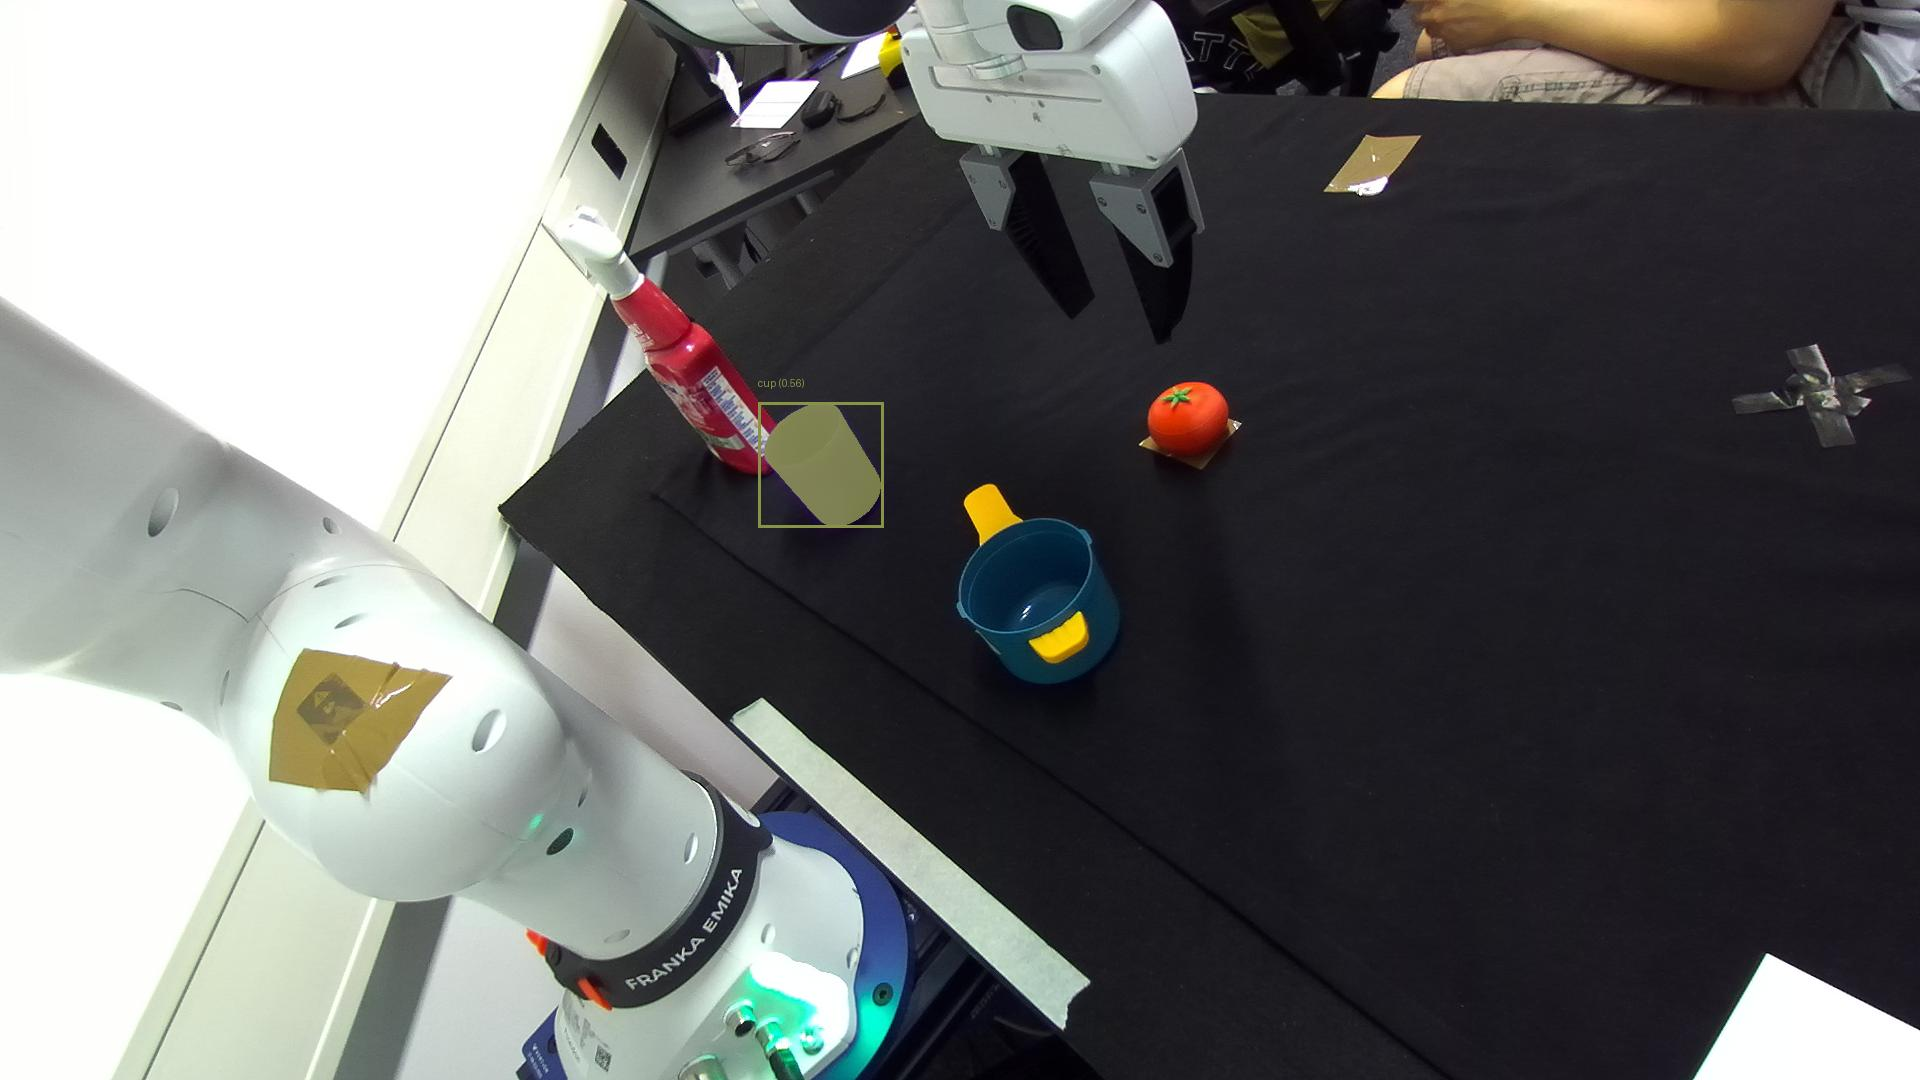
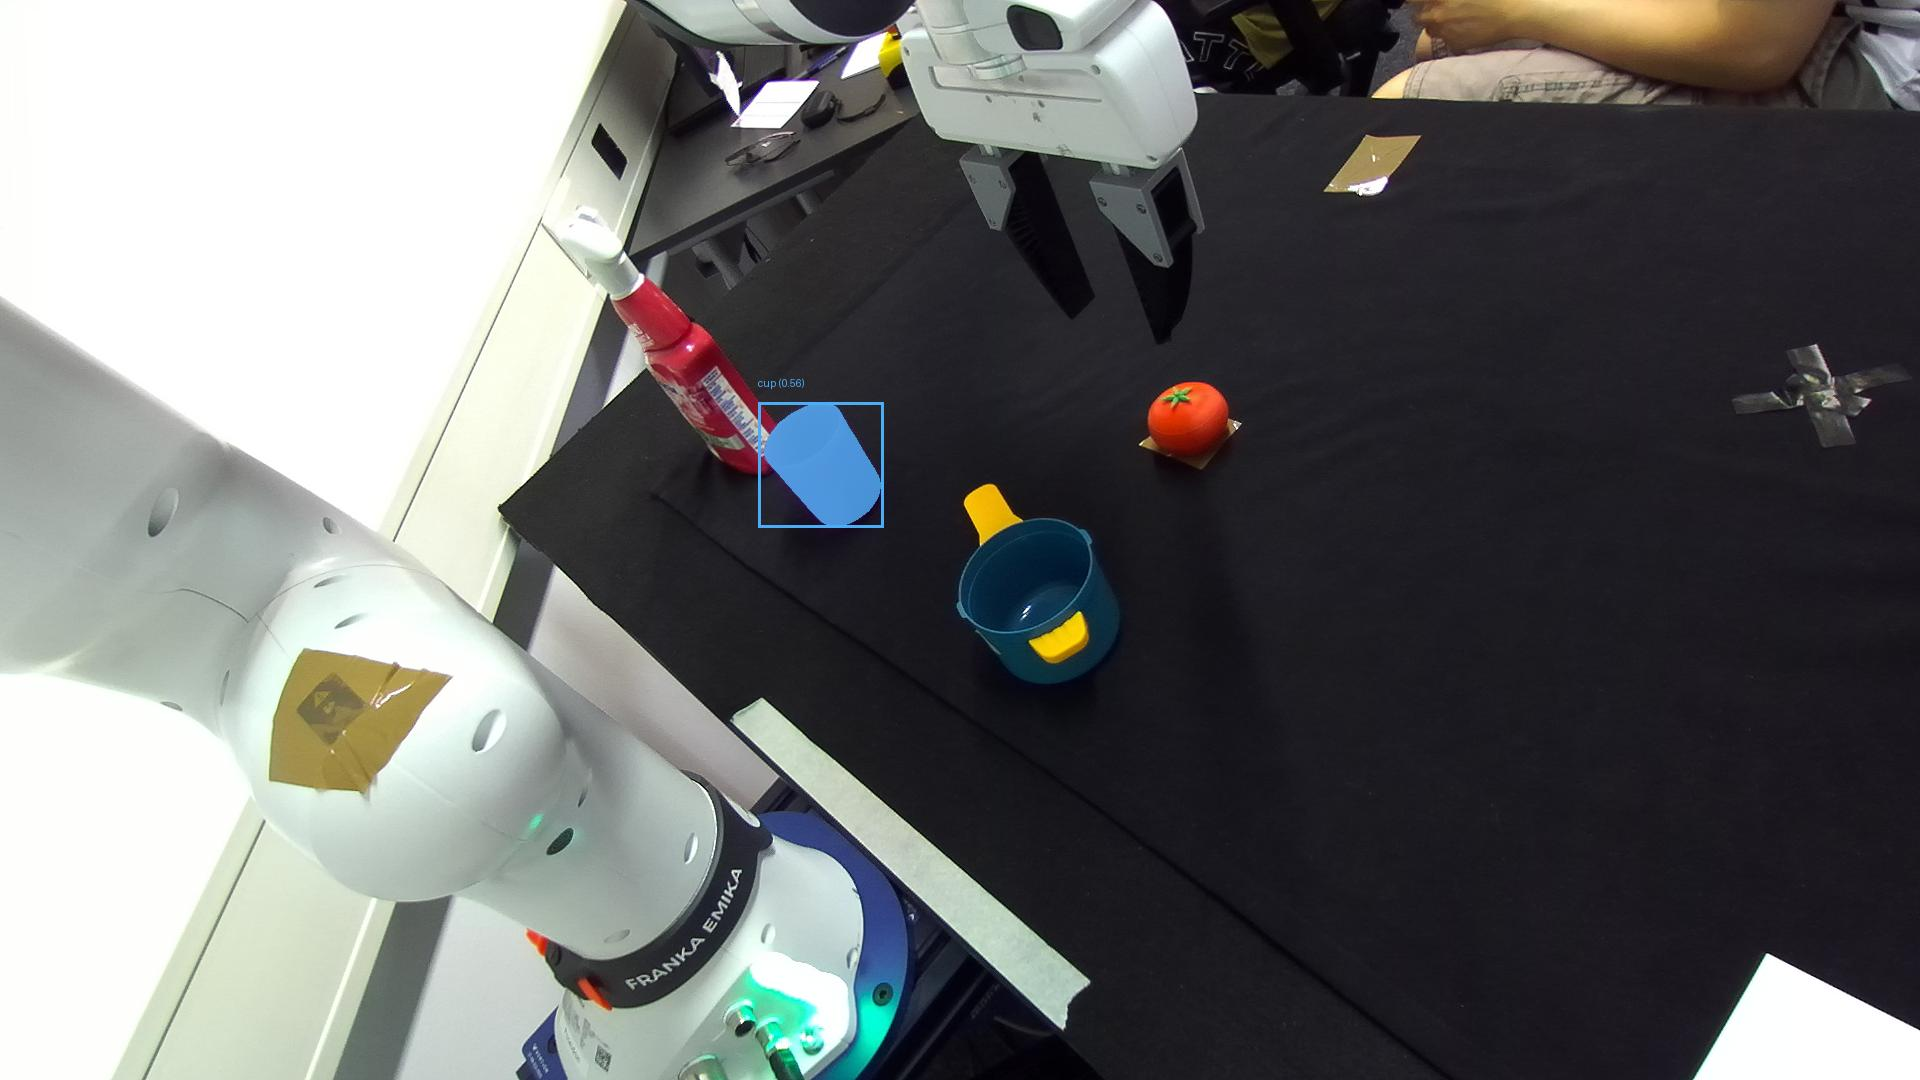
add icp and point cloud filtering

Changed region(s): [[0.375, 0.3361, 0.4688, 0.4889]]

diff --git a/high_level/src/execute/actions.py b/high_level/src/execute/actions.py
@@ -16,6 +16,116 @@ from src.pixel_world.pixel_and_world import pixels_to_world_left, pixels_to_worl
 from src.transcribe.tts import run_tts, play_text_to_speech
 import open3d as o3d
 import numpy as np
+from scipy.spatial import cKDTree
+
+def translation_only_icp(source, target, max_iter=20, tolerance=1e-6):
+    """
+    source: (N,3) 源点云
+    target: (M,3) 目标点云
+    返回: 源点云变换后的点、平移向量T
+    """
+    src = np.asarray(source).copy()
+    tgt = np.asarray(target).copy()
+
+    prev_error = float('inf')
+    T_total = np.zeros(3)
+
+    for i in range(max_iter):
+        # 1. 最近邻配对
+        tree = cKDTree(tgt)
+        dist, idx = tree.query(src)
+        tgt_corr = tgt[idx]
+
+        # 2. 计算平移量（即配对点平均偏移）
+        delta_t = tgt_corr.mean(axis=0) - src.mean(axis=0)
+        src += delta_t
+        T_total += delta_t
+
+        # 3. 收敛判断
+        mean_error = np.mean(np.linalg.norm(src - tgt_corr, axis=1))
+        if abs(prev_error - mean_error) < tolerance:
+            break
+        prev_error = mean_error
+
+    return src, T_total
+
+def preprocess_pointcloud(points, colors, voxel_size=0.005, nb_points=10, radius=0.02):
+    """
+    对输入点云和颜色进行体素下采样+半径滤波
+    返回处理后的 open3d 点云对象
+    """
+    import open3d as o3d
+    import numpy as np
+    pcd = o3d.geometry.PointCloud()
+    pcd.points = o3d.utility.Vector3dVector(np.asarray(points))
+    if colors is not None:
+        col = np.asarray(colors)
+        if col.max() > 1.1:
+            col = col / 255.0
+        pcd.colors = o3d.utility.Vector3dVector(col)
+    # 体素下采样
+    pcd = pcd.voxel_down_sample(voxel_size)
+    # 半径滤波
+    pcd, _ = pcd.remove_radius_outlier(nb_points=nb_points, radius=radius)
+    return pcd
+
+def filter_and_merge_icp_translation_only(
+        points_l, colors_l, points_r, colors_r, 
+        voxel_size=0.005, nb_points=10, radius=0.02):
+
+    pcd_l = preprocess_pointcloud(points_l, colors_l, voxel_size, nb_points, radius)
+    pcd_r = preprocess_pointcloud(points_r, colors_r, voxel_size, nb_points, radius)
+
+    arr_l = np.asarray(pcd_l.points)
+    arr_r = np.asarray(pcd_r.points)
+
+    # 3. 手写ICP-只平移
+    aligned_l, T = translation_only_icp(arr_l, arr_r)
+
+    # 4. 合并点云
+    all_points_arr = np.vstack([aligned_l, arr_r])
+    if pcd_l.has_colors() and pcd_r.has_colors():
+        all_colors_arr = np.vstack([np.asarray(pcd_l.colors), np.asarray(pcd_r.colors)])
+    else:
+        all_colors_arr = np.ones_like(all_points_arr)
+
+    return all_points_arr, all_colors_arr, T
+
+def filter_and_merge_icp(
+        points_l, colors_l, points_r, colors_r, 
+        voxel_size=0.005, nb_points=10, radius=0.02, 
+        icp_max_corr=0.03, icp_threshold=1.0):
+    """
+    :param points_l, colors_l: 左点云与颜色 (Nx3)
+    :param points_r, colors_r: 右点云与颜色 (Mx3)
+    :return: all_points_arr, all_colors_arr, transformation (左对准右)
+    """
+
+    pcd_l = preprocess_pointcloud(points_l, colors_l, voxel_size, nb_points, radius)
+    pcd_r = preprocess_pointcloud(points_r, colors_r, voxel_size, nb_points, radius)
+
+    # 4. ICP 配准（左对齐到右）
+    reg = o3d.pipelines.registration.registration_icp(
+        pcd_l, pcd_r, icp_max_corr,
+        np.eye(4),  # 初始变换
+        o3d.pipelines.registration.TransformationEstimationPointToPoint()
+    )
+    T = reg.transformation
+    # 变换左点云
+    pcd_l.transform(T)
+
+    # 5. 合并
+    all_points_arr = np.vstack([
+        np.asarray(pcd_l.points), np.asarray(pcd_r.points)
+    ])
+    if pcd_l.has_colors() and pcd_r.has_colors():
+        all_colors_arr = np.vstack([
+            np.asarray(pcd_l.colors), np.asarray(pcd_r.colors)
+        ])
+    else:
+        all_colors_arr = np.ones_like(all_points_arr)  # 若没颜色则全白
+
+    return all_points_arr, all_colors_arr, T  # T可选
 
 def sphere_at(point, color, radius=0.02):
     s = o3d.geometry.TriangleMesh.create_sphere(radius)
@@ -32,13 +142,11 @@ def open3d_show(all_points_arr, all_colors_arr, target_center_point, target_max_
     pcd.colors = o3d.utility.Vector3dVector(all_colors_arr)
 
     vis_geoms = [pcd]
-    vis_geoms.append(sphere_at(target_center_point, color=[1,0,0], radius=0.012))
-    vis_geoms.append(sphere_at(target_max_z_point, color=[0,0,1], radius=0.01))
-    vis_geoms.append(sphere_at(center_world_points, color=[0,1,0], radius=0.01))
+    vis_geoms.append(sphere_at(target_center_point, color=[1,0,0], radius=0.012))# 红色球体表示质心
+    vis_geoms.append(sphere_at(target_max_z_point, color=[0,0,1], radius=0.01))# 蓝色球体表示z轴最高点
+    vis_geoms.append(sphere_at(center_world_points, color=[0,1,0], radius=0.01))# 绿色球体表示移动目标点
     vis_geoms.append(o3d.geometry.TriangleMesh.create_coordinate_frame(size=0.05, origin=[0,0,0]))  # 坐标系
     o3d.visualization.draw_geometries(vis_geoms)
-
-
 
 def call_ros2_service(service_name, service_type, args_dict):
     # 把字典转成一行的 YAML 字符串
@@ -207,10 +315,12 @@ def execute_action_sequence(actions):
 
     #declare parameters for each action type
     move_target_point = None # perceived target point
-    world_points_l = None # world points in left camera
-    world_points_r = None # world points in right camera
     target_max_z_point = None # z轴方向上的最高点
     target_center_point = None # 质心点
+    center_world_points = None # perceived image target point in world coordinates
+    all_points_arr = None # all points in world coordinates
+    all_colors_arr = None # all colors in world coordinates
+
     target = None # current target, used to update the target in each action
     
     move_params = {"move_x" : None, "move_y" : None, "move_z" : None, "move_qx" : None, "move_qy" : None, "move_qz" : None, "move_qw" : None}
@@ -310,15 +420,28 @@ def execute_action_sequence(actions):
 
 
                     if all_world_points_r is not None and all_world_points_l is not None:
-                        print(f"World point in right camera: {all_world_points_r}, in left camera: {all_world_points_l}")                
-                        # 合并点云举例
-                        all_points = list(all_world_points_r) + list(all_world_points_l)
-                        all_colors = list(color_r) + list(color_l)
+                        print(f"World point in right camera: {all_world_points_r}, in left camera: {all_world_points_l}") 
+
+                        # 如果两边都有点云，使用ICP配准合并 
+                        all_points, all_colors, T = filter_and_merge_icp_translation_only(
+                            all_world_points_l, color_l, all_world_points_r, color_r
+                        )           
+
+                        # # 合并点云举例
+                        # all_points = list(all_world_points_r) + list(all_world_points_l)
+                        # all_colors = list(color_r) + list(color_l)
+
                         center_world_points = (center_world_points_l + center_world_points_r)/2
                         success = True
                         
                     elif all_world_points_r is not None and all_world_points_l is None:
                         print(f"World point in right camera: {all_world_points_r}, in left camera: None")
+                        
+                        # 如果只有右边有点云，直接使用右边的点云
+                        pcd_r = preprocess_pointcloud(all_world_points_r, color_r, voxel_size=0.005, nb_points=10, radius=0.02)
+                        all_world_points_r = np.asarray(pcd_r.points)
+                        color_r = np.asarray(pcd_r.colors)
+
                         all_points = list(all_world_points_r)
                         all_colors = list(color_r)
                         center_world_points = center_world_points_r
@@ -326,6 +449,12 @@ def execute_action_sequence(actions):
                         
                     elif all_world_points_r is None and all_world_points_l is not None:
                         print(f"World point in right camera: None, in left camera: {all_world_points_l}")
+
+                        # 如果只有左边有点云，直接使用左边的点云    
+                        pcd_l = preprocess_pointcloud(all_world_points_l, color_l, voxel_size=0.005, nb_points=10, radius=0.02)
+                        all_world_points_l = np.asarray(pcd_l.points)
+                        color_l = np.asarray(pcd_l.colors)
+
                         all_points = list(all_world_points_l)
                         all_colors = list(color_l)
                         center_world_points = center_world_points_l
@@ -451,27 +580,23 @@ def execute_action_sequence(actions):
                     continue 
                 
                 print("execute grasp action")
-                # time.sleep(5)
-                # success = True
+ 
                 
-                
-                ##TODO##  
-                # if world_points_r is not None or world_points_l is not None:
-                #     merged_points, trans = merge_points_icp(world_points_r, world_points_l, threshold=0.02, visualize=True)
-                # elif world_points_r is not None and world_points_l is None:
-                #     merged_points = world_points_r
-                # elif world_points_r is None and world_points_l is not None:
-                #     merged_points = world_points_l
-                # else:
-                #     print("❌ Failed to perceive target points in both cameras.")
-                #     # maybe other method to determine the grasp strategy
-                # now we have world_points of target , which is a list of tuples, each tuple is a point in world coordinates
-                # put the value into gf_params by grasp strategy with points cloud or something else
                 if target != "spoon": 
                     grasp_params = {"x_prep": 0.5, "y_prep": 0.6, "z_prep": 0.3, "qx_prep": 1.0, "qy_prep": 0.0, "qz_prep": 0.0, "qw_prep": 0.0,
                                 "x_grasp": 0.5, "y_grasp": 0.6, "z_grasp": 0.2, "qx_grasp": 1.0, "qy_grasp": 0.0, "qz_grasp": 0.0, "qw_grasp": 0.0}
+                else:
+                    pass
+                    ##TODO##  
+                    # if all_points_arr is None:
+                    #     print("❌ Failed to perceive target points in both cameras.")
+                    #     maybe other method to determine the grasp strategy
+                    # else:
+                    #     ................
+                    #     now we have world_points of target (all_points_arr) , which is a array , each element is a point in world coordinates
+                    #     put the value into gf_params by grasp strategy with points cloud or something else
                 
-                
+
                 try:
                     # 检查所有值
                     if any(v is None for v in grasp_params.values()):
@@ -512,29 +637,22 @@ def execute_action_sequence(actions):
                 if target is  grasped_thing:
                     continue 
                 print("execute grasp action")
-                # time.sleep(5)
-                # success = True
+
                 
-                
-                ##TODO## 
-                
-                # if world_points_r is not None or world_points_l is not None:
-                #     merged_points, trans = merge_points_icp(world_points_r, world_points_l, threshold=0.02, visualize=True)
-                # elif world_points_r is not None and world_points_l is None:
-                #     merged_points = world_points_r
-                # elif world_points_r is None and world_points_l is not None:
-                #     merged_points = world_points_l
-                # else:
-                #     print("❌ Failed to perceive target points in both cameras.")
-                #     # maybe other method to determine the grasp strategy
-                    
-                # now we have world_points of target , which is a list of tuples, each tuple is a point in world coordinates 
                 # put the value into go_params by grasp strategy with points cloud or something else
                 if target != "spoon": 
                     grasp_params = {"x_prep": 0.5, "y_prep": 0.6, "z_prep": 0.3, "qx_prep": 1.0, "qy_prep": 0.0, "qz_prep": 0.0, "qw_prep": 0.0,
                                 "x_grasp": 0.5, "y_grasp": 0.6, "z_grasp": 0.2, "qx_grasp": 1.0, "qy_grasp": 0.0, "qz_grasp": 0.0, "qw_grasp": 0.0}
-                
-                
+                else:
+                    pass
+                    ##TODO##  
+                    # if all_points_arr is None:
+                    #     print("❌ Failed to perceive target points in both cameras.")
+                    #     maybe other method to determine the grasp strategy
+                    # else:
+                    #     ................
+                    #     now we have world_points of target (all_points_arr) , which is a array , each element is a point in world coordinates
+                    #     put the value into gf_params by grasp strategy with points cloud or something else              
                 
                 try:
                     # 检查所有 go_params 的值

diff --git a/high_level/src/VLM_agent/OwlViT_FastSAM_SAM.py b/high_level/src/VLM_agent/OwlViT_FastSAM_SAM.py
@@ -283,8 +283,18 @@ class TextDrivenSegmenter:
                 overlay = Image.alpha_composite(overlay, Image.fromarray(rgba))
         return Image.alpha_composite(img.convert("RGBA"), overlay).convert("RGB")
 
+_SEG_INSTANCE = None
+
+def get_segmenter():
+    global _SEG_INSTANCE
+    if _SEG_INSTANCE is None:
+        _SEG_INSTANCE = TextDrivenSegmenter(fastsam_model_path="src/VLM_agent/FastSAM/FastSAM-x.pt")
+    return _SEG_INSTANCE
+
+
+
 def find_object_central_pixel(target: str, text: str, image_path, is_sam: bool = True, if_translate: bool = False, name: str = "left"):
-    seg = TextDrivenSegmenter(fastsam_model_path="src/VLM_agent/FastSAM/FastSAM-x.pt")
+    seg = get_segmenter() #TextDrivenSegmenter(fastsam_model_path="src/VLM_agent/FastSAM/FastSAM-x.pt")
     img, boxes, points = seg.detect_and_segment(image_path, [target], [text],  multi_task = False, if_sam = is_sam, if_translate = if_translate)
     if name == "left":
         img.save("images/result_l.jpg")
@@ -303,8 +313,8 @@ def find_object_central_pixel(target: str, text: str, image_path, is_sam: bool =
     bbox = tuple(boxes[0][0])  # 获取第一个目标的边界框
     score = boxes[0][2]  # 获取第一个目标的置信度分数
 
-    del seg, img, boxes, points # 1⃣ 去引用
-    if torch.cuda.is_available(): # 2⃣ 清 CUDA 缓存
+    # del seg, img, boxes, points # 1去引用
+    if torch.cuda.is_available(): # 2清 CUDA 缓存
         torch.cuda.empty_cache()
     gc.collect() # 3 可选，但推荐
     

diff --git a/high_level/src/pixel_world/pixel_and_world.py b/high_level/src/pixel_world/pixel_and_world.py
@@ -34,7 +34,7 @@ left_cam = CameraModel(
          -0.07631803, 
          -0.41404371]).as_matrix(),
     t_wc=np.array([0.11261126, 
-                   -0.50195948, 
+                   -0.50195948 - 0.02, 
                    0.55795671])
 )
 
@@ -49,7 +49,7 @@ right_cam = CameraModel(
         0.425767747250020, 
         0.031018753461827]).as_matrix(),
     t_wc=np.array([0.903701253331141, 
-                   0.439249176547482, 
+                   0.439249176547482 + 0.02, 
                    0.598645500102408])
 )
 
